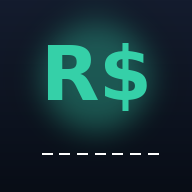
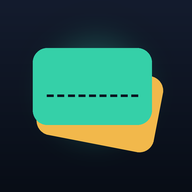
Novo icone: dois cartoes (PF/PJ) com a costura pontilhada, em alta qualidade

diff --git a/sw.js b/sw.js
@@ -1,4 +1,4 @@
-const CACHE = "financas-v5";
+const CACHE = "financas-v6";
 const ASSETS = [
   "./",
   "./index.html",
